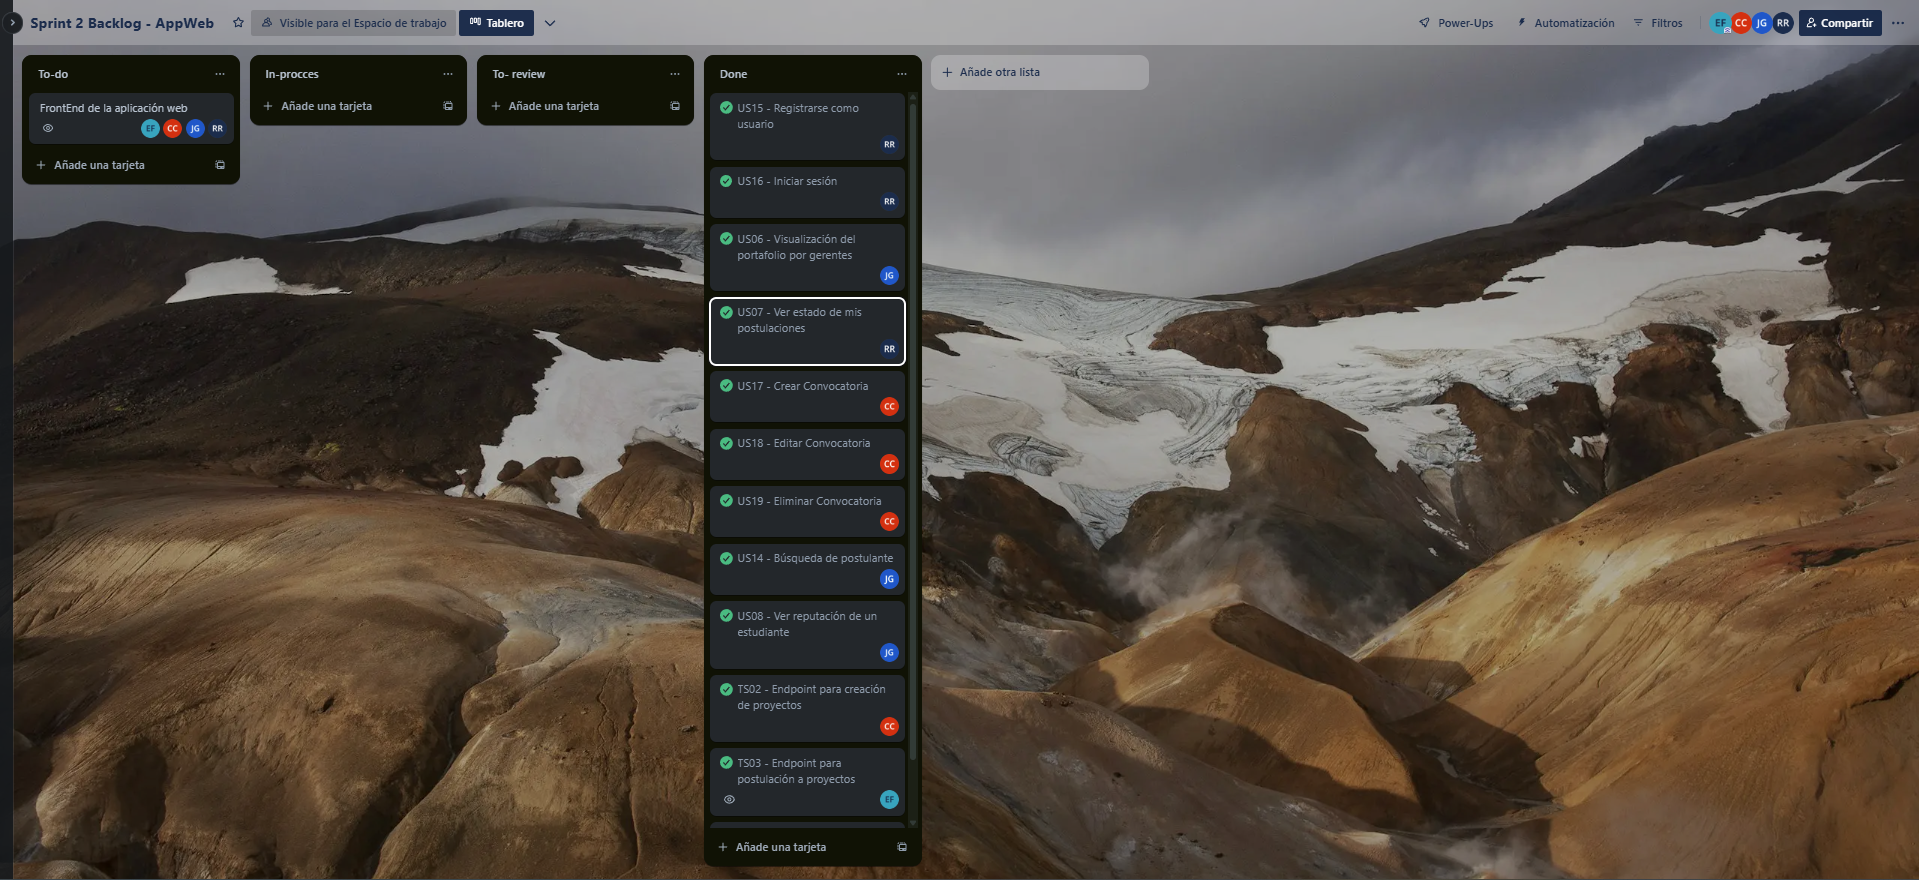
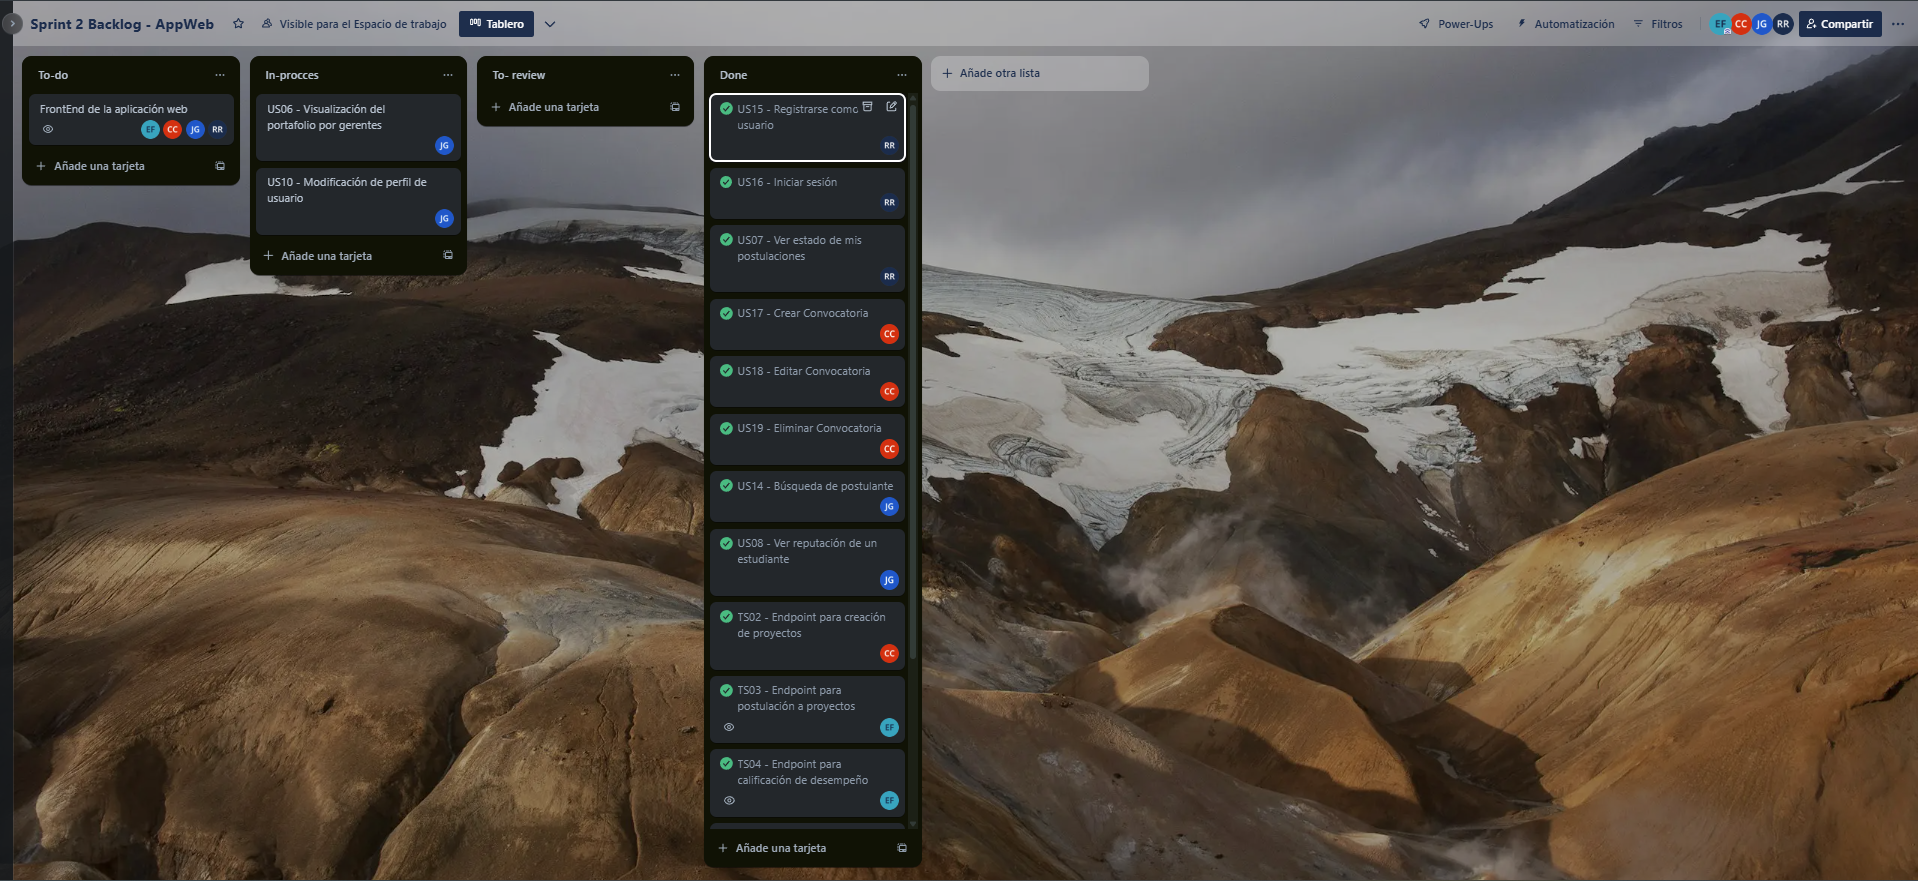
docs: add user stories

diff --git a/README.md b/README.md
@@ -2114,6 +2114,48 @@ El lenguaje a utilizar para este proyecto es:
       <td>Epic 08</td>
     </tr>
     <tr>
+      <td>US28</td>
+      <td>Visualizar oportunidades para estudiante</td>
+      <td>
+        <strong>Como</strong> estudiante que inicio sesión, <strong>quiero</strong> poder acceder a un apartado de oportunidades, <strong>para</strong> para postularme a uno.
+      </td>
+      <td>
+        <strong>Escenario 1: Accedo a el apartado Oportunidades</strong><br>
+        <strong>Dado</strong> que estoy en el inicio de la aplicación,
+        <strong>Cuando</strong> presiono en Oportunidades,
+        <strong>Entonces</strong> visualizo diferentes proyectos para postularme.
+      </td>
+      <td>Epic 03</td>
+    </tr>
+    <tr>
+      <td>US29</td>
+      <td>Visualizar de portafolio para estudiante</td>
+      <td>
+        <strong>Como</strong> estudiante que inicio sesión, <strong>quiero</strong> poder acceder a un apartado de Portafolio, <strong>para</strong> para visualizar mis trabajos hechos.
+      </td>
+      <td>
+        <strong>Escenario 1: Accedo a el apartado Portafolios</strong><br>
+        <strong>Dado</strong> que estoy en el inicio de la aplicación,
+        <strong>Cuando</strong> presiono en Portafolios,
+        <strong>Entonces</strong> visualizo diferentes trabajos hechos.
+      </td>
+      <td>Epic 05</td>
+    </tr>
+    <tr>
+      <td>US30</td>
+      <td>Visualizar de postulaciones para gerentes</td>
+      <td>
+        <strong>Como</strong> gerente que inicio sesión, <strong>quiero</strong> poder acceder a un apartado de Postulaciones, <strong>para</strong> para visualizar las diferentes postulaciones hechas a mi proyecto.
+      </td>
+      <td>
+        <strong>Escenario 1: Accedo a el apartado Postulaciones</strong><br>
+        <strong>Dado</strong> que estoy en el inicio de la aplicación,
+        <strong>Cuando</strong> presiono en Postulaciones,
+        <strong>Entonces</strong> visualizo diferentes postulaciones hechas en mis proyectos.
+      </td>
+      <td>Epic 02</td>
+    </tr>
+    <tr>
       <td>TS01</td>
       <td>Endpoint para registro de usuarios</td>
       <td>
@@ -2448,6 +2490,27 @@ El lenguaje a utilizar para este proyecto es:
       <td>Endpoint para calificación de desempeño</td>
       <td>Como developer, quiero crear un endpoint que permita a los gerentes calificar el desempeño de un estudiante tras finalizar un proyecto, para actualizar su reputación en la plataforma.</td>
       <td>3</td>
+    </tr>
+    <tr>
+      <td>31</td>
+      <td>US28</td>
+      <td>Visualizar oportunidades para estudiante</td>
+      <td>Como estudiante que inicio sesión, quiero poder acceder a un apartado de oportunidades, para para postularme a uno.</td>
+      <td>5</td>
+    </tr>
+    <tr>
+      <td>32</td>
+      <td>US29</td>
+      <td>Visualizar de portafolio para estudiante</td>
+      <td>Como estudiante que inicio sesión, quiero poder acceder a un apartado de Portafolio, para para visualizar mis trabajos hechos.</td>
+      <td>3</td>
+    </tr>
+    <tr>
+      <td>33</td>
+      <td>US30</td>
+      <td>Visualizar de postulaciones para gerentes</td>
+      <td>Como gerente que inicio sesión, quiero poder acceder a un apartado de Postulaciones, para para visualizar las diferentes postulaciones hechas a mi proyecto.</td>
+      <td>4</td>
     </tr>
   </tbody>
 </table>
@@ -4086,7 +4149,7 @@ Durante el Sprint 2 del proyecto UniTalents Connect, el equipo enfocó sus esfue
   </tr>
   <tr>
     <td><strong>Sprint 2 Velocity</strong></td>
-    <td></td>
+    <td>57</td>
   </tr>
 </table>
 <br>
@@ -4212,7 +4275,7 @@ link al trello: https://trello.com/b/VzJqmOvZ/sprint-2-backlog-appweb
             <td>Como gerente, quiero poder revisar el portafolio de un estudiante antes de seleccionarlo, para evaluar su experiencia previa.</td>
             <td>3</td>
             <td>Javier Gonzales</td>
-            <td>Done</td>
+            <td>In procces</td>
         </tr>
         <tr>
             <td>US07</td>
@@ -4302,6 +4365,46 @@ link al trello: https://trello.com/b/VzJqmOvZ/sprint-2-backlog-appweb
             <td>Como developer, quiero crear un endpoint que permita a los gerentes calificar el desempeño de un estudiante tras finalizar un proyecto, para actualizar su reputación en la plataforma.</td>
             <td>3</td>
             <td>Erick Palomino</td>
+            <td>Done</td>
+        </tr>
+        <tr>
+            <td>US28</td>
+            <td>Visualizar oportunidades para estudiante</td>
+            <td>T13</td>
+            <td>Listado de proyectos disponibles para el estudiante</td>
+            <td>Como estudiante que inicio sesión, quiero poder acceder a un apartado de oportunidades, para para postularme a uno.</td>
+            <td>5</td>
+            <td>Erick Palomino</td>
+            <td>Done</td>
+        </tr>
+        <tr>
+            <td>US29</td>
+            <td>Visualizar de portafolio para estudiante</td>
+            <td>T14</td>
+            <td>Listado del portafolio para el estudiante</td>
+            <td>Como estudiante que inicio sesión, quiero poder acceder a un apartado de Portafolio, para para visualizar mis trabajos hechos.</td>
+            <td>3</td>
+            <td>Erick Palomino</td>
+            <td>Done</td>
+        </tr>
+        <tr>
+            <td>US10</td>
+            <td>Modificación de perfil de usuario</td>
+            <td>T15</td>
+            <td>Formulario de edicion de perfil</td>
+            <td>Como usuario, quiero modificar la información de mi perfil para mantener mis datos actualizados en la plataforma.</td>
+            <td>4</td>
+            <td>Javier Gonzales</td>
+            <td>In procces</td>
+        </tr>
+        <tr>
+            <td>US30</td>
+            <td>Visualizar de postulaciones para gerentes</td>
+            <td>T16</td>
+            <td>Listado de postulaciones a proyectos de gerentes</td>
+            <td>Como gerente que inicio sesión, quiero poder acceder a un apartado de Postulaciones, para para visualizar las diferentes postulaciones hechas a mi proyecto.</td>
+            <td>4</td>
+            <td>Javier Gonzales</td>
             <td>Done</td>
         </tr>
     </tbody>
